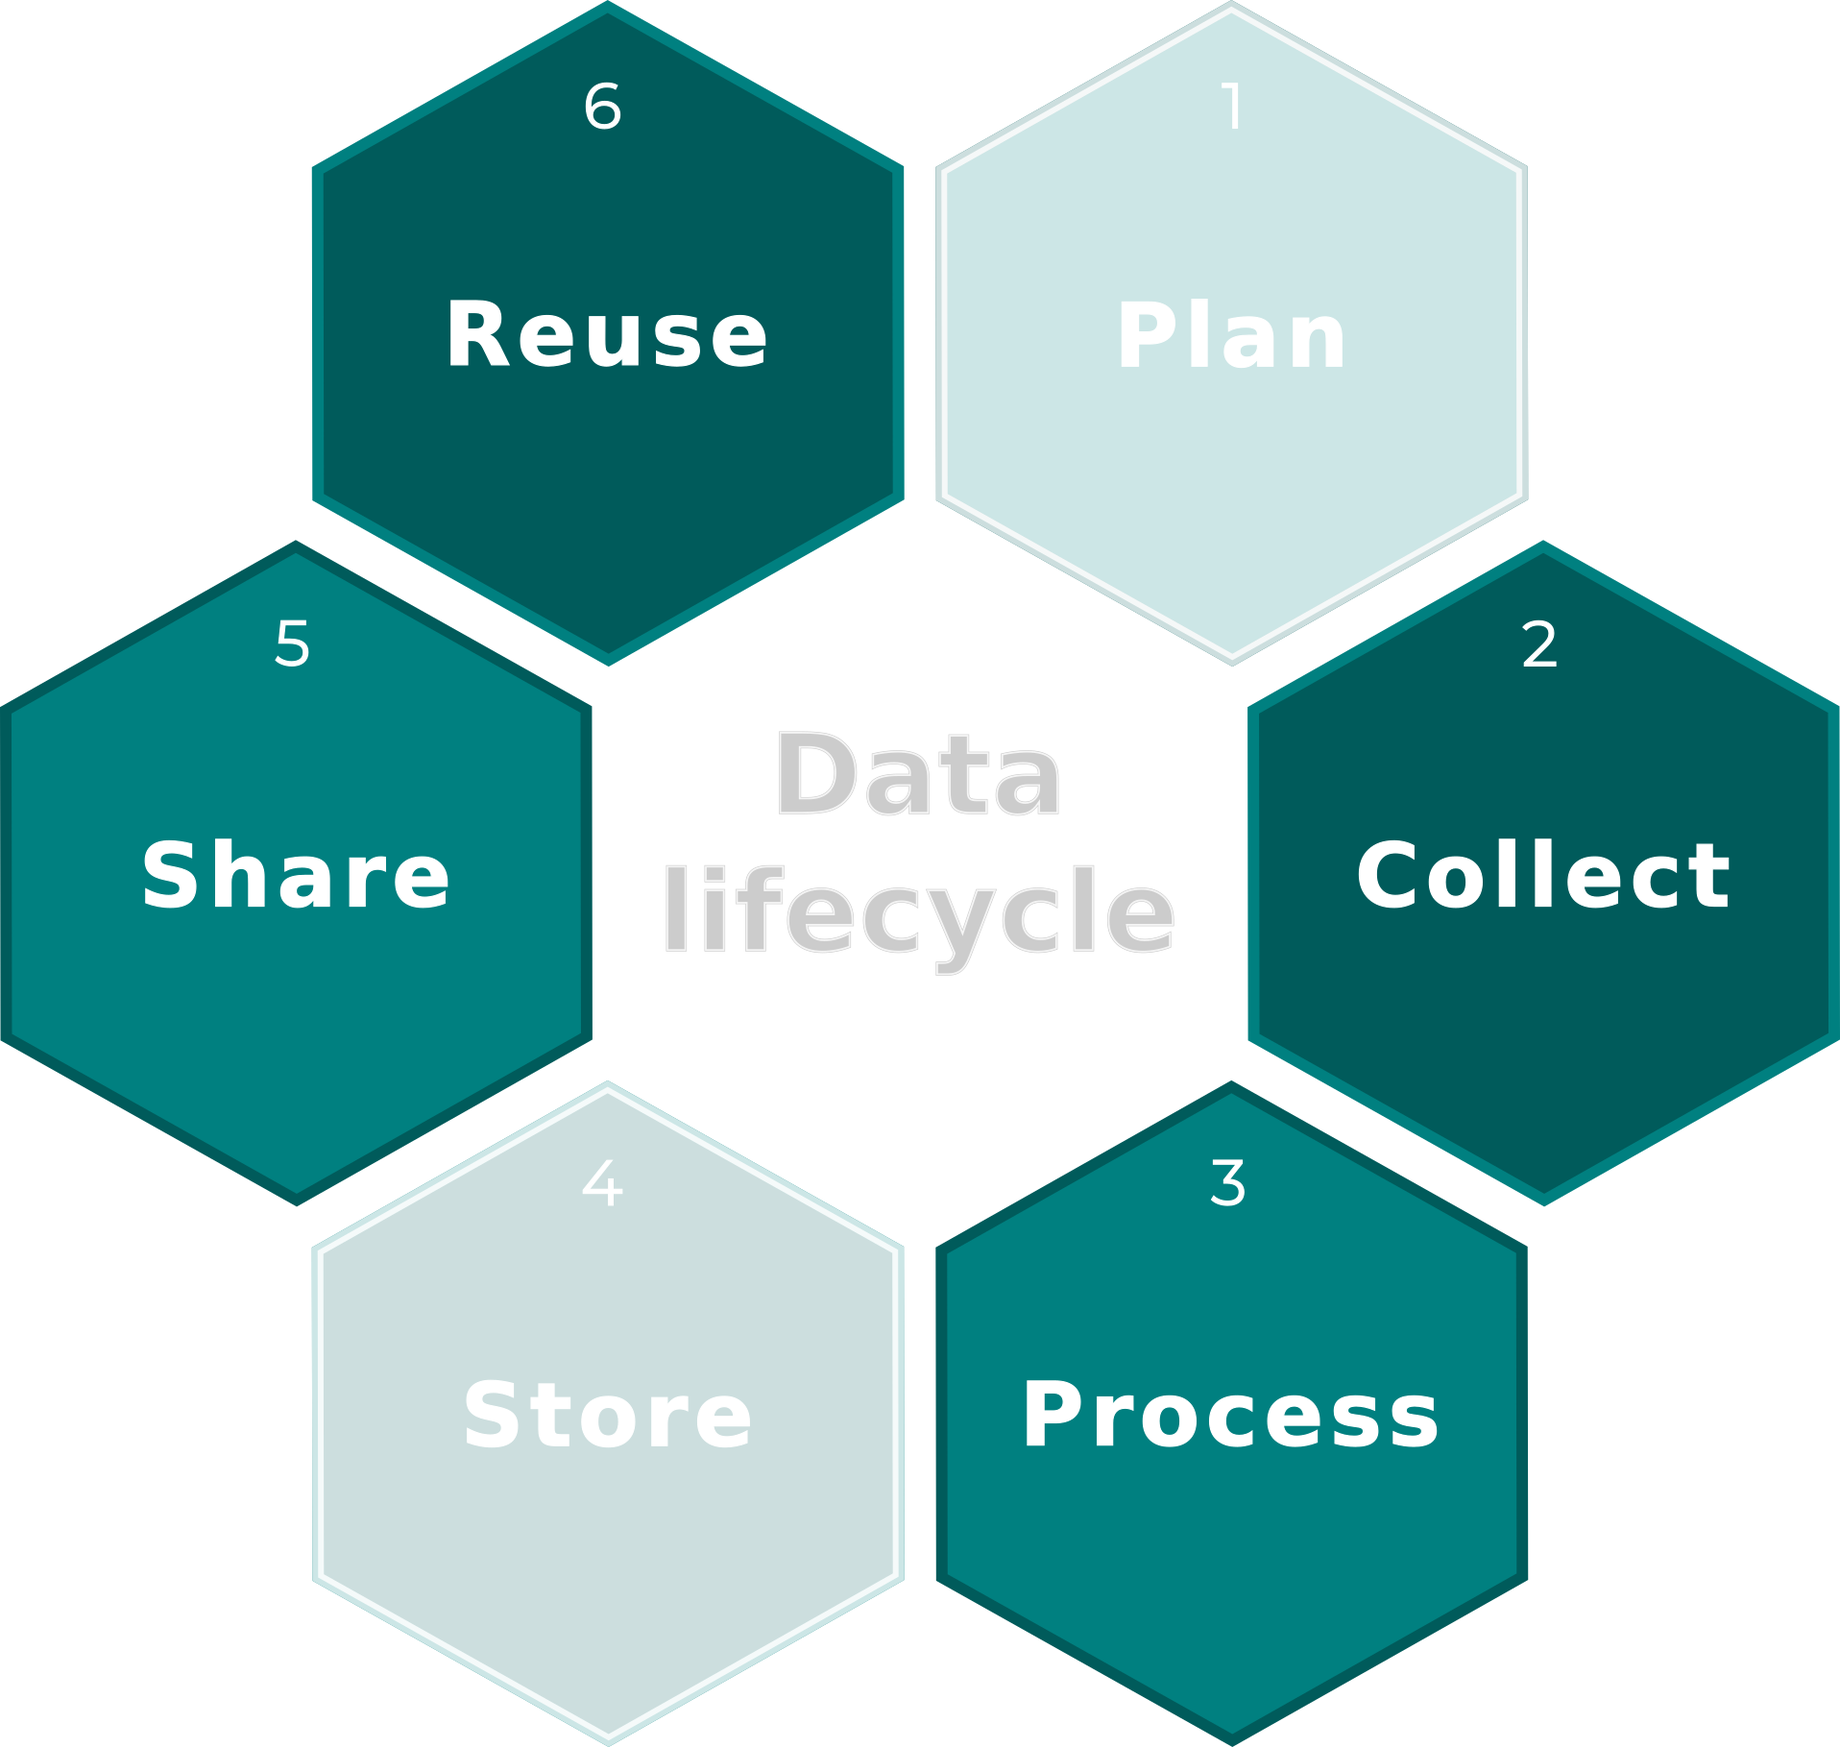
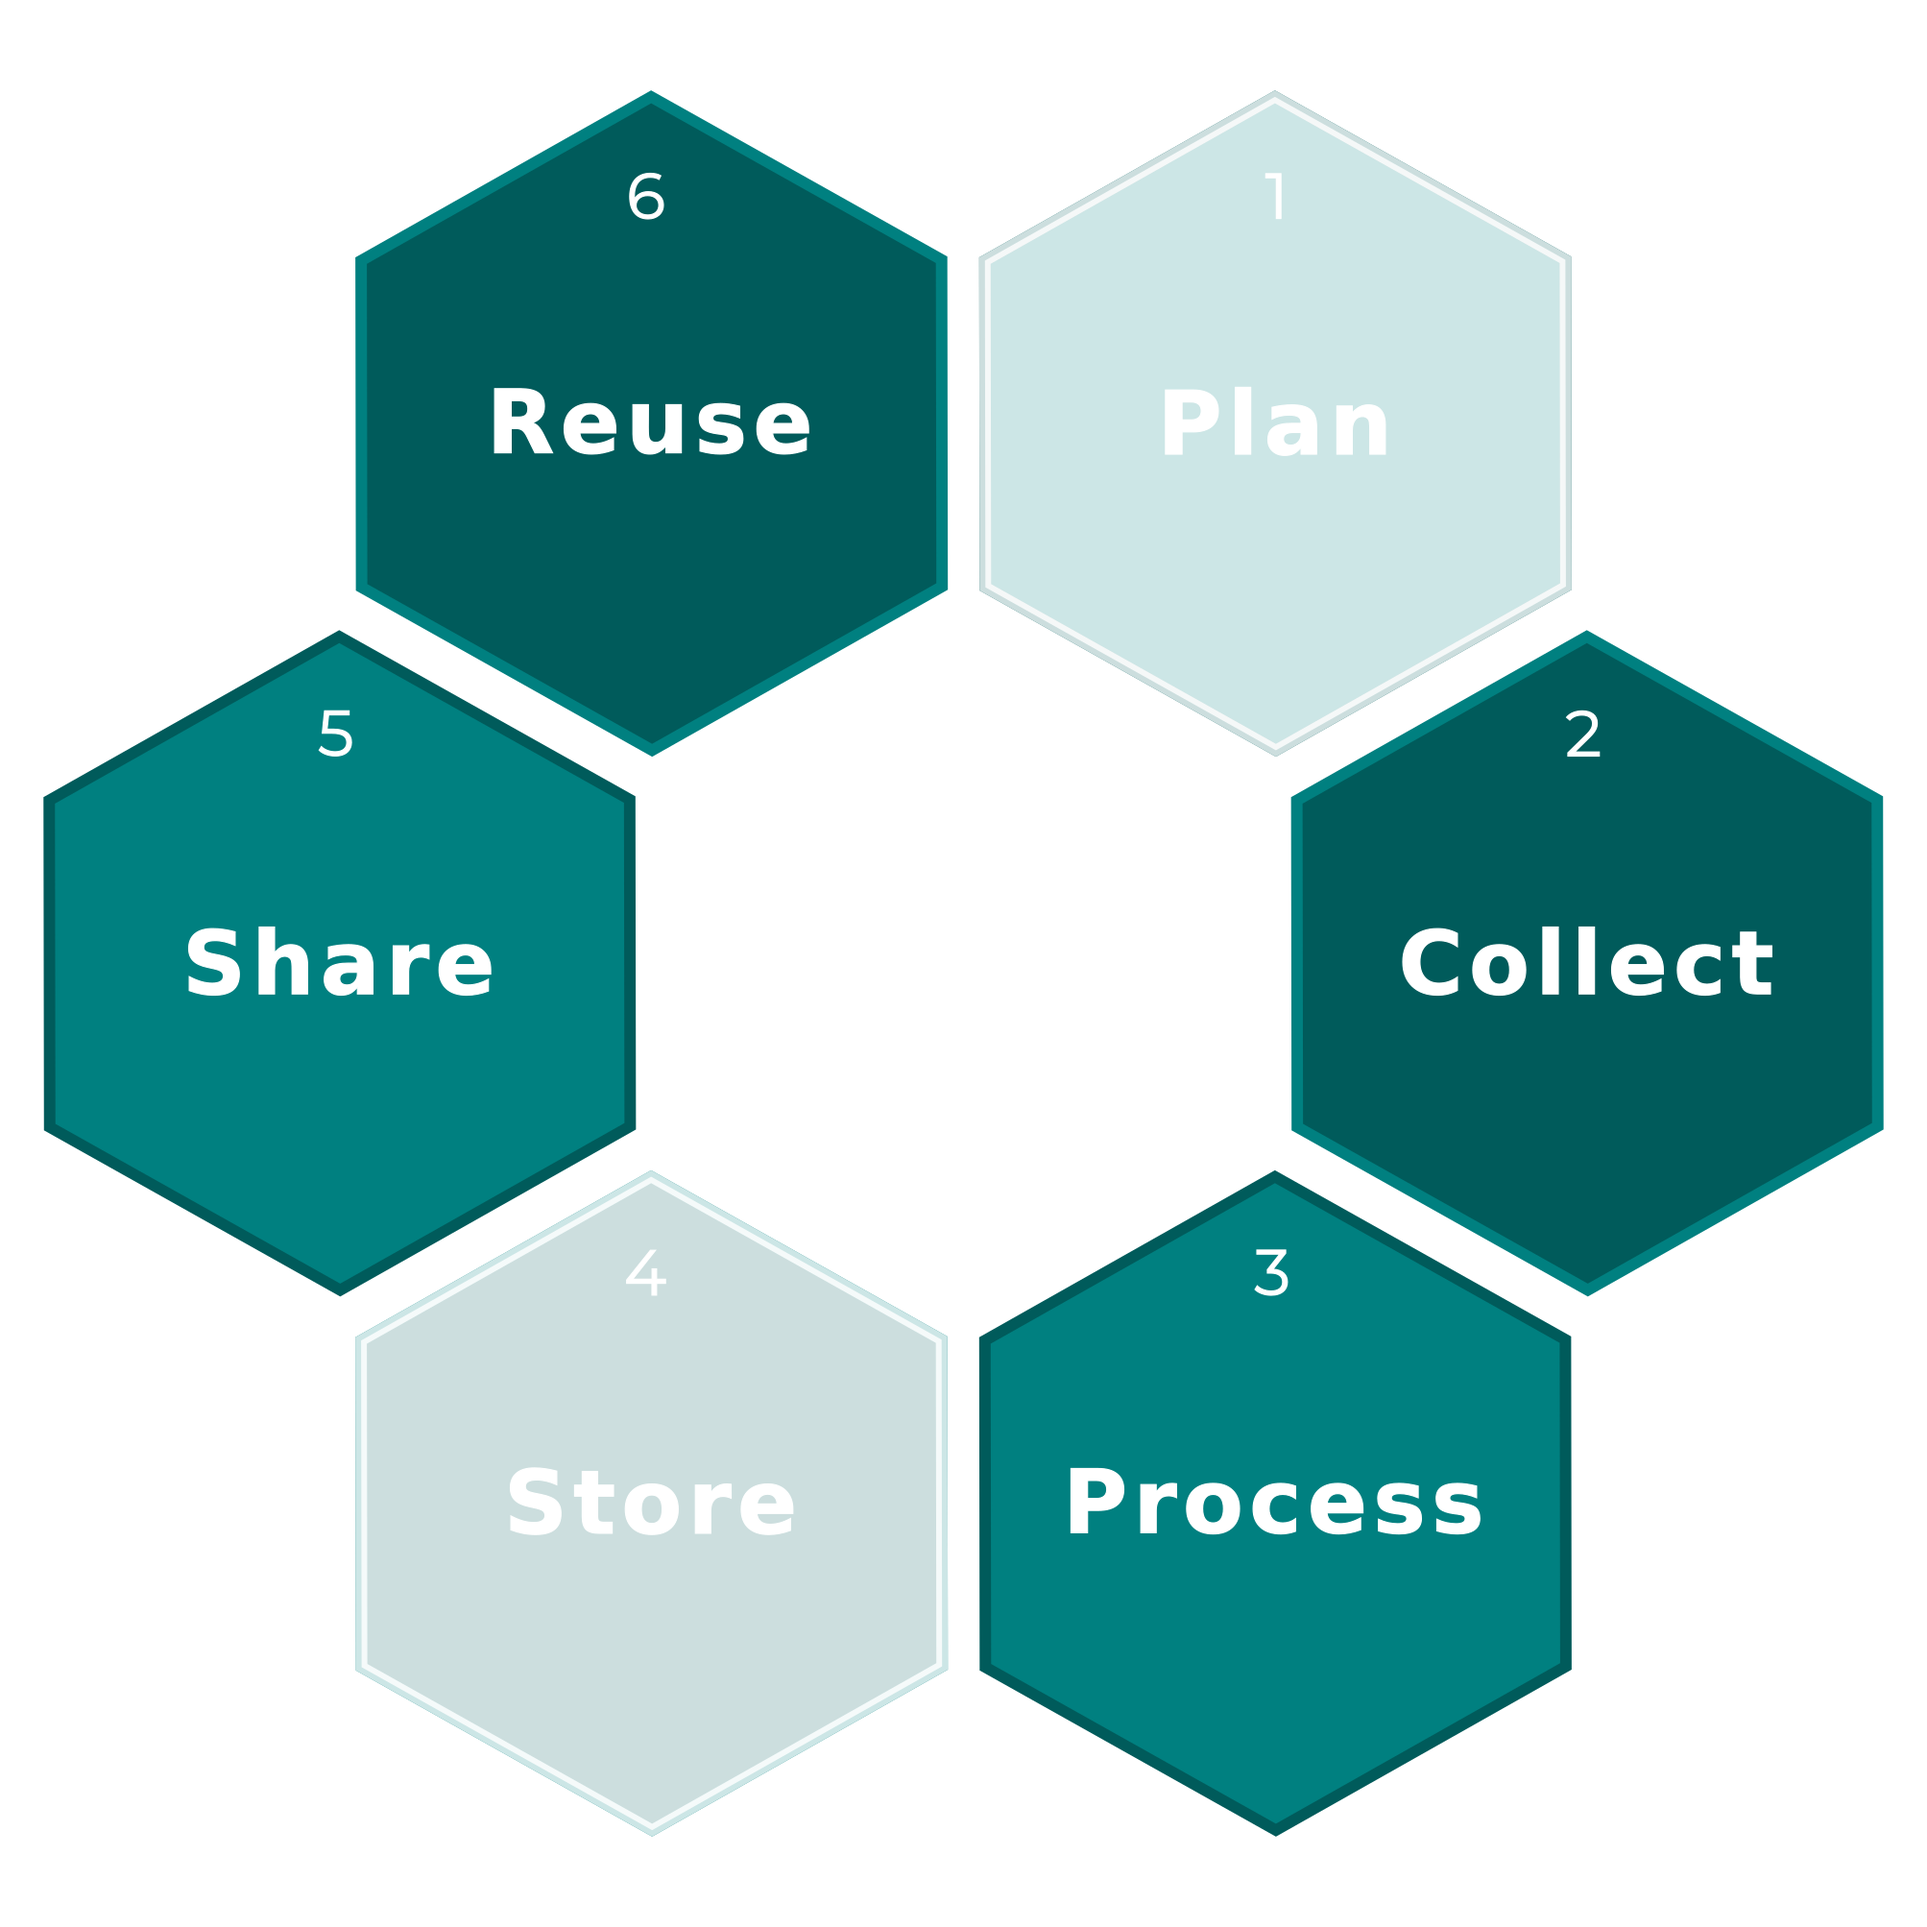
update 2026 version

diff --git a/README.md b/README.md
@@ -80,7 +80,7 @@ To understand the file organisation of this repository, please read this [Wiki](
 
 ## Citation
 
-Le Bras Y & Norvez O (2024) _Virtual Research Environment_. Online presentation available at <https://github.com/biodiversitydata/vre/>.
+Le Bras Y & Norvez O (2026) _Virtual Research Environment_. Online presentation available at <https://github.com/biodiversitydata/vre/>.
 
 
 ## Contributing
